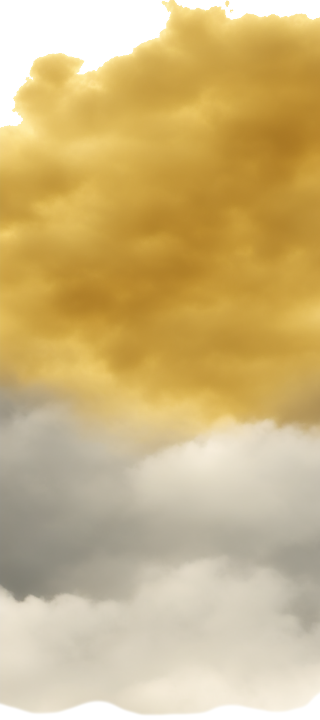
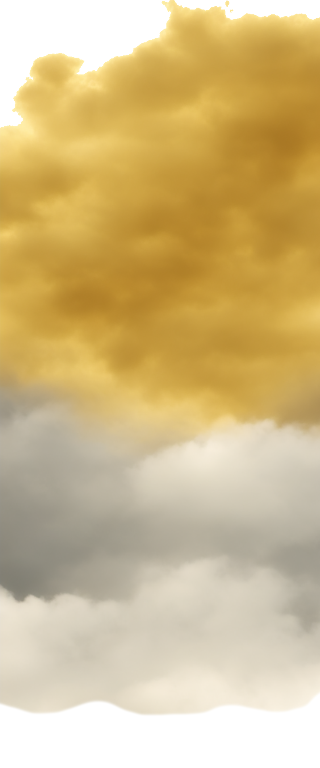
trying to fix clouds

diff --git a/src/game/screen_transition.c b/src/game/screen_transition.c
@@ -233,7 +233,7 @@ s32 render_gss_cloud_transition(s8 fadeTimer, s8 transTime, struct WarpTransitio
 
         gSPDisplayList(gDisplayListHead++, dl_hud_img_begin);
 
-        render_multi_image(&texture_gss_transition, 0, -200 + (int) (cube(((f32) (40 - gScreenEffectTimer)) * 0.2f)) , 320, 720, 1, 1, G_CYC_COPY);
+        render_multi_image(segmented_to_virtual(texture_gss_transition), 0, -200 + (int) (cube(((f32) (40 - gScreenEffectTimer)) * 0.2f)) , 320, 768, 1, 1, G_CYC_COPY);
         gSPDisplayList(gDisplayListHead++, dl_hud_img_end);
 
         gScreenEffectTimer++;

diff --git a/include/config/config_debug.h b/include/config/config_debug.h
@@ -26,7 +26,7 @@
  * This allows you to quickly test the level you're working on.
  * If you want the game to boot normally, just comment out the define again.
  */
-#define TEST_LEVEL LEVEL_NEW_FILE_SELECT
+#define TEST_LEVEL LEVEL_CCM
 /**
  * Enables debug level select. Hold L while the game boots to turn it on.
  */
